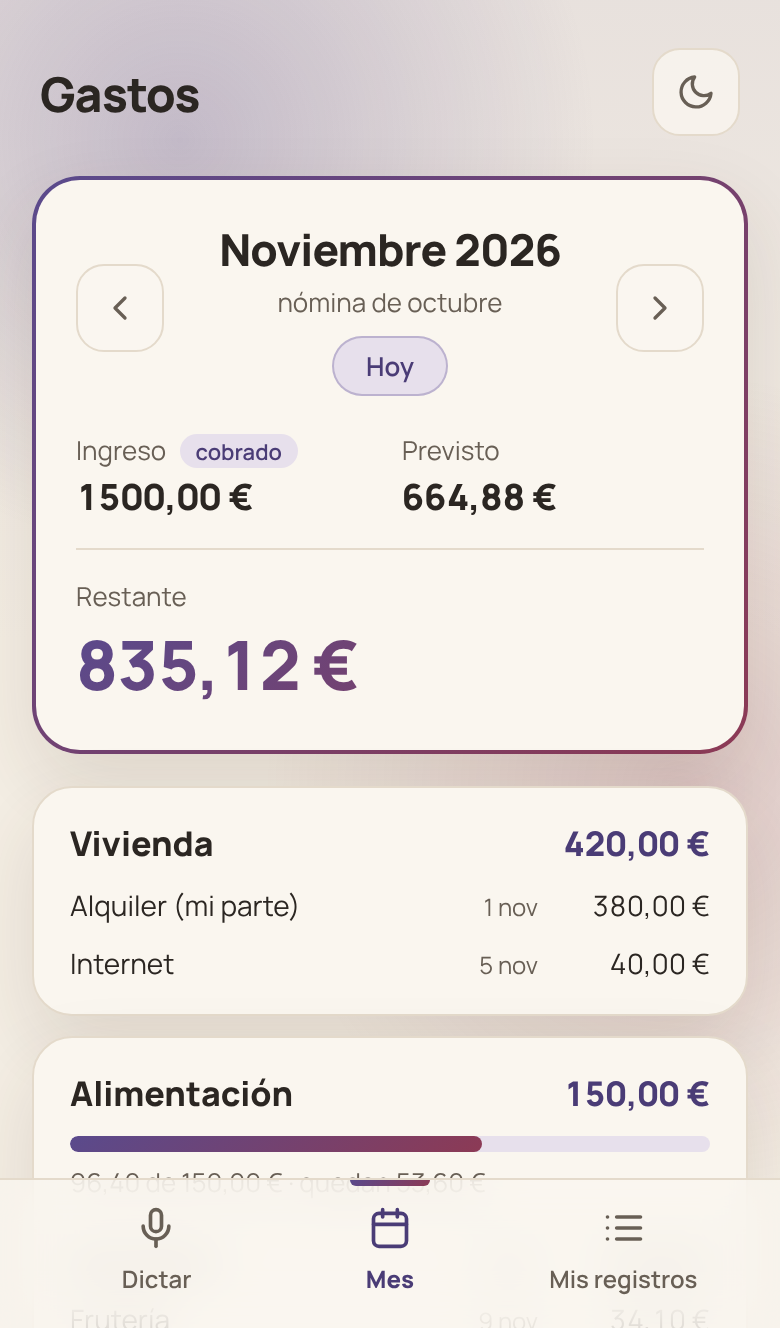
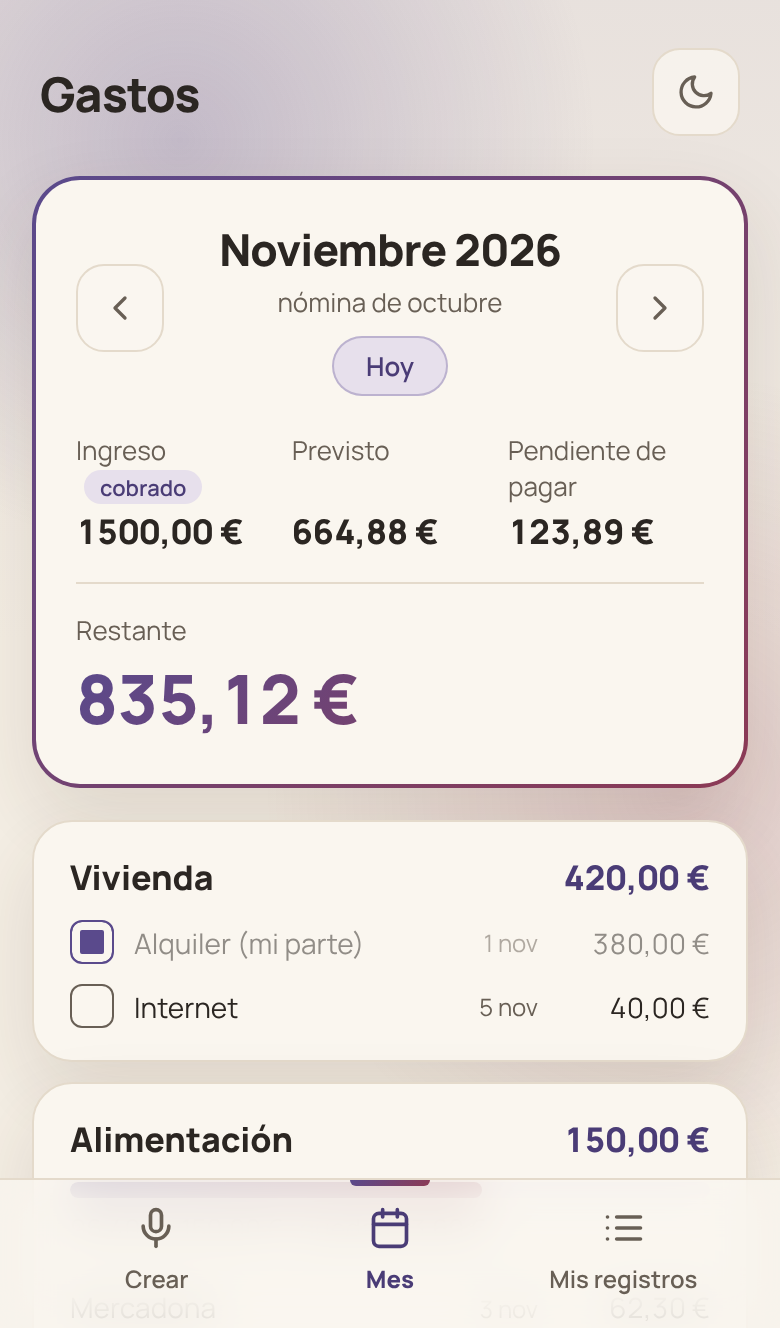
README: categorías propias, renombrar y marcar pagos (fases 7b y 8)
Secciones nuevas sobre la descripción de la categoría como prompt (prueba K7) y la casilla
de pagado optimista; filas en Decisiones, límites y «Qué he aprendido», y los tres archivos
nuevos del backend. La captura de «Mes» se regenera con datos inventados para enseñar el
pendiente de pagar y las casillas.

Claude-Session: https://claude.ai/code/session_019woZmmc5cqMfs8roGFKDfs

Changed region(s): [[0.0308, 0.3396, 0.9538, 0.8953], [0.3692, 0.3396, 0.8308, 0.4322], [0.1538, 0.9571, 0.2462, 0.988]]

diff --git a/README.md b/README.md
@@ -6,7 +6,7 @@ y el código lo valida antes de guardarlo en Google Sheets. Nada se guarda sin q
 <p align="center">
   <img src="docs/dictar-claro.png" alt="Vista previa de un gasto dictado, en tema claro" width="250">
   &nbsp;
-  <img src="docs/mes-claro.png" alt="Pestaña Mes: ingreso, previsto, restante y gastos por categoría" width="250">
+  <img src="docs/mes-claro.png" alt="Pestaña Mes: ingreso, previsto, pendiente de pagar, restante y gastos por categoría con casillas de pagado" width="250">
   &nbsp;
   <img src="docs/registros-oscuro.png" alt="Mis registros, en tema oscuro" width="250">
 </p>
@@ -29,6 +29,10 @@ con Claude Haiku y la validaba con código. La **v2** (este repositorio) añade:
 - **Mis registros**: ver, editar, dar de baja y eliminar gastos, siempre con *Deshacer*.
 - **Mes** (v2.1): el mes elegido con ingreso, previsto y restante, los gastos por categoría y una barra en
   las categorías con presupuesto. [Cómo funciona](#pestaña-mes-la-hoja-como-única-fuente-de-verdad).
+- **Categorías propias** (v2.2): crear una categoría con nombre y descripción desde el móvil; la descripción
+  le dice a Haiku qué gastos entran. [Cómo funciona](#categorías-la-descripción-también-es-un-prompt).
+- **Renombrar y marcar pagos** (v2.3): cambiar el nombre de un gasto y marcar como pagado cada cargo fijo del
+  mes, con el pendiente de pagar en la cabecera. [Cómo funciona](#marcar-pagos-interfaz-optimista).
 - **Una evaluación reproducible** para elegir modelo y configuración con datos.
 
 > El código de la v1 (interpretación, validación y escritura en la hoja) no está publicado: vive en el
@@ -134,7 +138,9 @@ cargos entran y cuáles no:
 | Enero 2027 | 1.115 € | Termina otra cuota; sin el cargo trimestral | ✅ |
 | Febrero 2027 | 1.049 € | Vuelve el cargo trimestral; sin las cuotas terminadas | ✅ |
 
-`B1` queda restaurado tras cuatro cambios de mes seguidos.
+`B1` queda restaurado tras cuatro cambios de mes seguidos. Más tarde, al pasar un cargo de 86 € a su propia
+categoría, los tres totales bajaron exactamente 86 € y `cuadra` siguió en ✅: cambiaron los datos de
+referencia de la prueba, no el cálculo.
 
 **El coste.** Si `B1` ya está en ese mes, la respuesta tarda ~0,9 s en el servidor. Cambiar de mes obliga a
 escribir, recalcular y restaurar: ~1,5–2,5 s en el servidor y ~3 s en el móvil. Es un precio aceptable
@@ -145,6 +151,44 @@ para una consulta de solo lectura a cambio de no duplicar la lógica. El otro pr
 300 ms después del último toque (*debounce*), así que tres toques rápidos son una sola petición. Si llegaran
 respuestas desordenadas, solo cuenta la última. La app tampoco hace gestos de web: ni zoom por doble toque
 o pellizco, ni rebote.
+
+## Categorías: la descripción también es un prompt
+
+Desde la pestaña «Crear» se puede añadir una categoría con **nombre y descripción**
+([`backend/Categorias.gs`](backend/Categorias.gs)). La descripción es obligatoria (10–150 caracteres) porque
+no es decorativa: Haiku lee la pestaña de categorías para clasificar cada dictado.
+
+La prueba que lo confirmó: creé la categoría «Aina» con la descripción de sus gastos y dicté *«luz 30 euros
+al mes»* **sin decir la categoría**. Haiku la propuso en «Aina» solo por la descripción. Un dato de la hoja,
+escrito por la persona, acaba funcionando como instrucción para el modelo, sin tocar el prompt.
+
+- **El código decide qué se puede crear:** nombre con alguna letra, sin duplicados (sin distinguir
+  mayúsculas ni tildes), que no empiece por `=` (se tomaría como fórmula) y que quepa en el Resumen. El
+  límite no está escrito en el código: la app cuenta los bloques de categoría del Resumen, así que si se
+  amplía la hoja lo detecta sola.
+- **La categoría nueva va antes de «Otros»**, para que el cajón de sastre siga al final.
+- **Se puede deshacer**, como cualquier otra acción.
+
+## Marcar pagos: interfaz optimista
+
+Cada cargo fijo del mes lleva una casilla para marcarlo como pagado, y la cabecera enseña cuánto queda
+**pendiente de pagar** ([`backend/Pagos.gs`](backend/Pagos.gs)). Los presupuestos no se marcan (no son un
+cargo) y los gastos puntuales ya están pagados al apuntarlos.
+
+- **Una pestaña aparte, «Pagos»** (mes · ID del cargo · fecha), que la app crea la primera vez. No toca
+  ninguna fórmula: marcar un pago es informativo y no puede descuadrar el Resumen.
+- **La clave es mes + ID**, no la fecha del cargo: los cargos semanales no tienen una fecha única en el mes,
+  y un «× 4» es una sola casilla.
+- **Interfaz optimista.** Apps Script tarda unos 3 s; esperar su respuesta para rellenar una casilla se
+  notaría. La casilla y el pendiente cambian al instante y, si el servidor falla (por ejemplo, sin
+  conexión), vuelven atrás con un aviso. Funciona porque la acción casi nunca falla y es idempotente:
+  marcar dos veces deja una sola fila.
+- **Una petición por casilla.** Mientras se guarda, la casilla no responde: con dos toques rápidos, el
+  «desmarcar» podría llegar al servidor antes que el «marcar».
+- **Sin Deshacer.** Desmarcar es volver a tocar, y así marcar un pago no pisa el Deshacer de la última acción real.
+
+En «Mis registros», además, se puede **cambiar el nombre** de un gasto
+([`backend/Renombrar.gs`](backend/Renombrar.gs)). En un cargo recurrente, el nombre nuevo sale en todos los meses.
 
 ## Decisiones técnicas
 
@@ -159,6 +203,10 @@ o pellizco, ni rebote.
 | HTML, CSS y JS sin dependencias | Un framework | Se sirve tal cual en GitHub Pages, sin compilar, y cada línea se puede explicar |
 | «Mes» lee lo que calculan las fórmulas de la hoja | Recalcular el mes en JavaScript | Una sola fuente de verdad; cuesta ~1,6 s por cambio de mes |
 | Flechas con *debounce* y título que cambia al instante | Bloquear las flechas mientras carga | Con el bloqueo, tres toques rápidos solo avanzaban un mes (lo detecté probando en el iPhone) |
+| Descripción obligatoria al crear una categoría | Solo el nombre | Haiku la usa para clasificar los dictados |
+| Pagos en una pestaña propia, con clave mes + ID | Una columna en los cargos, o la fecha como clave | No toca las fórmulas y resuelve los cargos semanales, que no tienen fecha |
+| Casilla de pagado optimista, con vuelta atrás si falla | Esperar a la respuesta del servidor | Respuesta inmediata con un servidor de ~3 s |
+| «Cambiar nombre» con su propio botón | Un único «Guardar cambios» para nombre, importe y categoría | Cada cambio tiene su Deshacer; con uno solo, Deshacer revertiría solo la última de dos operaciones |
 
 ## Latencia
 
@@ -192,7 +240,8 @@ En la pestaña «Mes», cambiar de mes tarda ~3 s (detalle en [su sección](#pes
 - **Bajar la latencia** cacheando el contexto de la hoja.
 - **Ampliar la evaluación** con otra voz y varias pasadas por configuración.
 - **Cambiar de mes en ~3 s.** Si con el uso se hace lento, guardar en el móvil los meses ya vistos.
-- **El Resumen tiene sitio para 12 categorías** (hoy hay 9). Crear categorías desde la app tendrá que respetar ese límite.
+- **El Resumen tiene sitio para 12 categorías.** La app respeta el límite y avisa, pero ampliarlo es trabajo en la hoja.
+- **Los pagos son informativos.** Marcar un cargo no cambia el restante; solo el pendiente de pagar.
 
 ## Qué he aprendido
 
@@ -203,11 +252,15 @@ En la pestaña «Mes», cambiar de mes tarda ~3 s (detalle en [su sección](#pes
 - **El prompt de Whisper no son instrucciones.** Es texto que el modelo imita, y puede colarse en la salida.
 - **Un LLM es una pieza más.** La fiabilidad sale de rodearlo de código que valida y de una persona que confirma.
 - **Saber dónde está el coste.** La latencia estaba en la infraestructura (Apps Script), no en los modelos.
+- **Los datos también son instrucciones.** La descripción de una categoría cambió cómo clasifica Haiku sin
+  tocar su prompt.
+- **Probar en el dispositivo real y medir.** El fallo del micrófono solo existía en el iPhone; medir el
+  volumen durante el fallo descartó mi primera hipótesis y señaló al culpable (Web Audio abierto mientras grababa).
 
 ## Estructura y puesta en marcha
 
 ```
-index.html              página: token, dictar, mes, mis registros y ajustes
+index.html              página: token, crear (dictar y nueva categoría), mes, mis registros y ajustes
 styles.css              estilos; colores como variables para tema claro y oscuro
 app.js                  lógica del cliente: grabación, vistas, llamadas a la API
 config.js               URL del endpoint de Apps Script (no es secreta)
@@ -218,11 +271,14 @@ backend/Transcribir.gs  audio → texto con Groq Whisper y filtro de silencio
 backend/Vocabulario.gs  vocabulario para Whisper (apagado por defecto tras la evaluación)
 backend/Evaluacion.gs   evaluación con audios de Google Drive (se ejecuta desde el editor)
 backend/Mes.gs          acción mes: lee el mes de la hoja y restaura Resumen!B1; probarMes() lo evalúa
+backend/Categorias.gs   acción categoria: crea una categoría antes de «Otros»
+backend/Renombrar.gs    acción renombrar: cambia el nombre de un gasto
+backend/Pagos.gs        acción pagar: marca o desmarca un cargo fijo en la pestaña Pagos
 docs/                   capturas del README
 ```
 
-1. **Apps Script** (sobre el proyecto de la v1): crea `Api.gs`, `Transcribir.gs`, `Vocabulario.gs` y `Mes.gs`
-   con el contenido de `backend/` y añade en las propiedades del script `GROQ_API_KEY`, junto a las de la v1
+1. **Apps Script** (sobre el proyecto de la v1): crea `Api.gs`, `Transcribir.gs`, `Vocabulario.gs`, `Mes.gs`,
+   `Categorias.gs`, `Renombrar.gs` y `Pagos.gs` con el contenido de `backend/` y añade en las propiedades del script `GROQ_API_KEY`, junto a las de la v1
    (`TOKEN`, `ANTHROPIC_API_KEY`). Crea una implementación nueva como aplicación web.
 2. **Frontend:** pon la URL `/exec` de la implementación en `config.js` y publica el repositorio con GitHub Pages.
 3. **iPhone:** abre la página en Safari → Compartir → *Añadir a la pantalla de inicio*, y pega el token la
